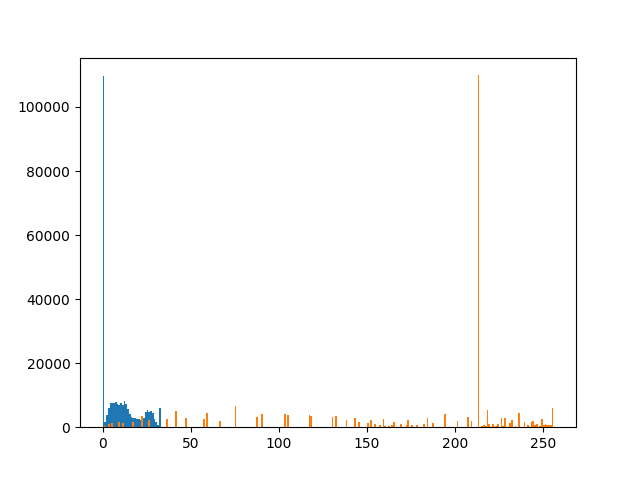
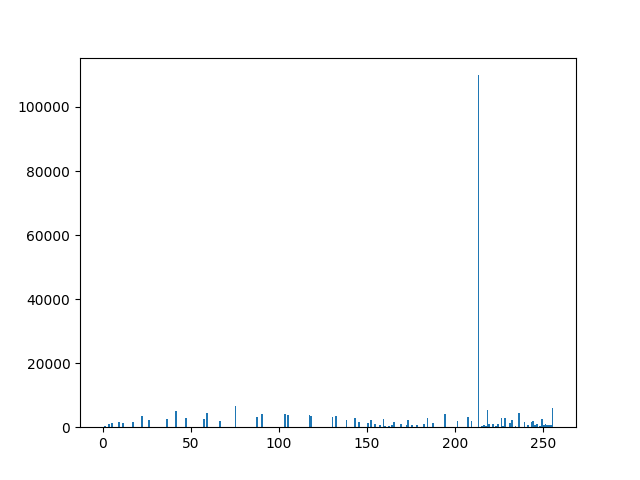
Adding Histograms for each tile Task 2a

diff --git a/Lab 08/Code/Task.py b/Lab 08/Code/Task.py
@@ -35,6 +35,7 @@ def TilingApproach(image):
 	# HISTOGRAMS
 	plt.hist(image.ravel(), 256, [0,256])
 	plt.savefig("../Images/originalImage_Histogram.png")
+	plt.show()
 
 	print("Top Left:\t", 0, "\t", tileX, "\t", 0, "\t", tileY)
 	print("Bottom Left:\t", tileX, "\t", width, "\t", 0, "\t", tileY)
@@ -48,6 +49,19 @@ def TilingApproach(image):
 	image[tileX: width, 0: tileY] = HistogramEqualization(image[tileX: width, 0: tileY])
 	image[0: tileX, tileY: height] = HistogramEqualization(image[0: tileX, tileY: height])
 	image[tileX: width, tileY: height] = HistogramEqualization(image[tileX: width, tileY: height])
+
+	plt.hist(image[0: tileX, 0: tileY].ravel(), 256, [0,256])
+	plt.savefig("../Images/Tile/localEqualization_Histogram(lt).png")
+	plt.show()
+	plt.hist(image[tileX: width, 0: tileY].ravel(), 256, [0,256])
+	plt.savefig("../Images/Tile/localEqualization_Histogram(bl).png")
+	plt.show()
+	plt.hist(image[0: tileX, tileY: height].ravel(), 256, [0,256])
+	plt.savefig("../Images/Tile/localEqualization_Histogram(tr).png")
+	plt.show()
+	plt.hist(image[tileX: width, tileY: height].ravel(), 256, [0,256])
+	plt.savefig("../Images/Tile/localEqualization_Histogram(br).png")
+	plt.show()
 
 	cv2.imshow("After Local Enhancement", image)
 	cv2.waitKey(0)
@@ -69,7 +83,7 @@ def SlidingWindowApproach(image, window):
 
 	for x in range(height - window):
 		for y in range(width - window):
-			newImage[x: x + window, y: y + window] = cv2.equalizeHist(image[x: x + window, y: y + window])
+			newImage[x: x + window, y: y + window] = HistogramEqualization(image[x: x + window, y: y + window])
 
 	plt.hist(newImage.ravel(), 256, [0,256])
 	plt.savefig("../Images/localEqualization_Histogram(sliding).png")
@@ -80,6 +94,7 @@ def main():
 	image = cv2.imread(IMAGE_PATH, 0)
 	window = 64
 
+	TilingApproach(image)
 	SlidingWindowApproach(image.copy(), window)
 
 if __name__ == '__main__':
